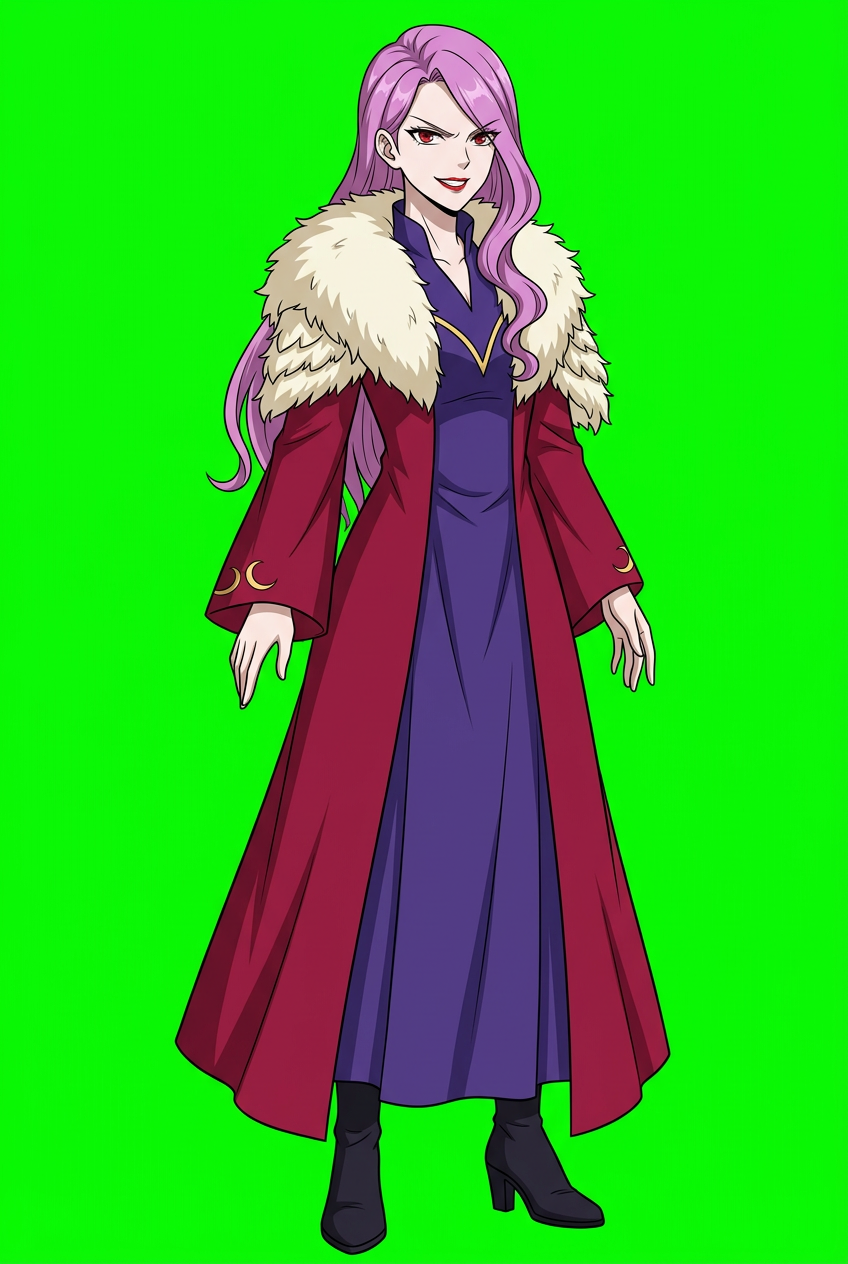
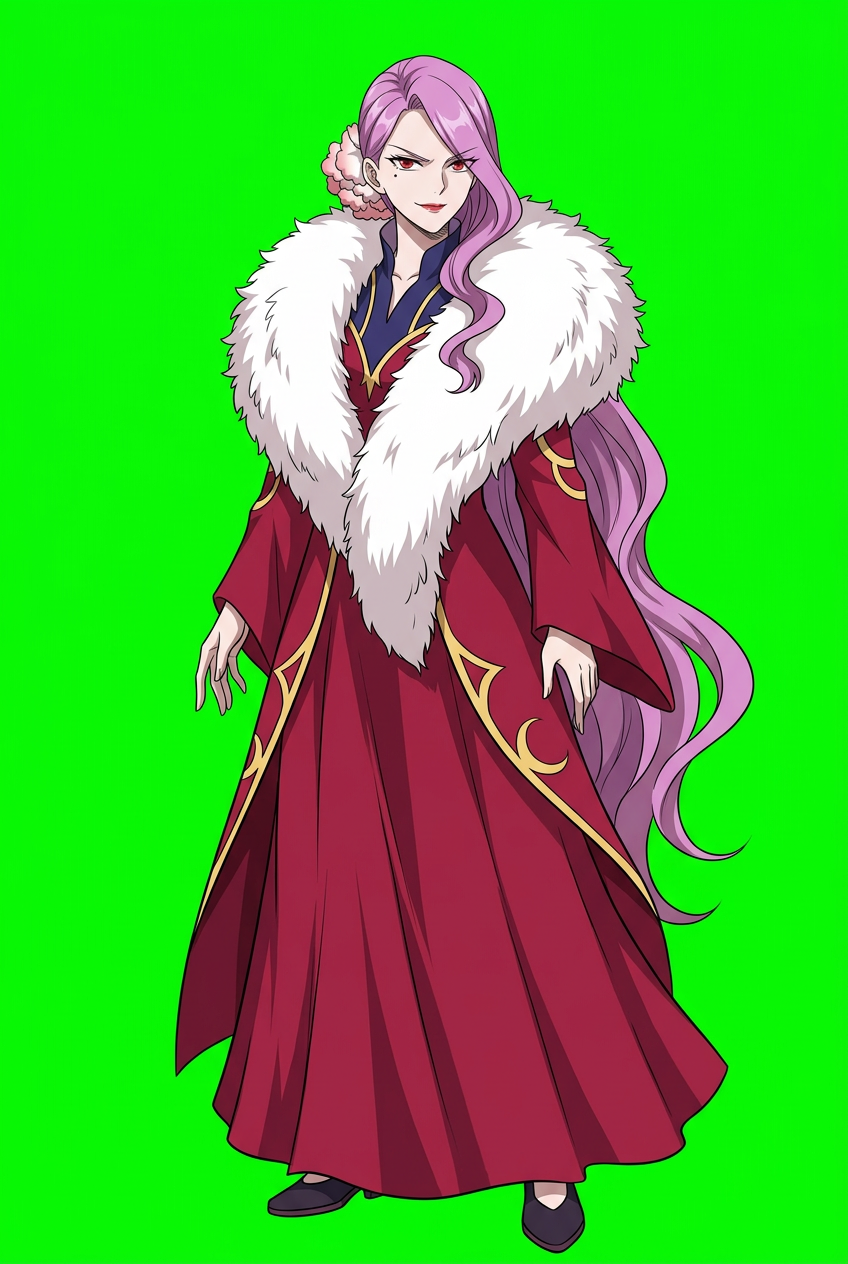
第5章: 新增叶欣蓝(249话); 花锦按漫画327话重画

diff --git a/dev/design/漫画复核进度.md b/dev/design/漫画复核进度.md
@@ -101,6 +101,8 @@
 | 玄衣 | xuanyi | 273-03/04/08（丹塔三巨头右侧，旗袍女子） | ❌→已重画（旧图有青色披帛、穿高跟鞋；漫画为无披帛，白色肩片浅蓝边，手臂缠红绳，开衩处露白底浅蓝边，红长靴） |
 | 天雷子（新增） | tianleizi | 273-03/07（丹塔三巨头左侧，棕发大胡子） | 🆕 用户选A：作为第5章丹会剧情人物加入，不参加战斗 |
 | 叶重 | yezhong | 249-07（字幕"叶家大长老"）、249-11（千叶掌） | ✅ 与漫画一致 |
+| 叶欣蓝（新增） | yexinlan | 249-06/18/20（萧炎在迦南的学生、叶重孙女） | 🆕 用户选A：第5章剧情人物，不参加战斗；领口盘扣为竖排，漫画是横排三扣（小差异） |
+| 花锦 | huajin | 327-17/18 + fandom 漫画图（花宗，粉色花鞭"百花鞭"） | ❌→已重画（旧图米黄毛领、紫色裙；漫画为白色大毛领、红袍金色月牙纹、深蓝V领镶金、眼下痣、头侧粉色花饰） |
 
 ## 用户决定（2026-09-27）
 - 凌影：选A——用第63话蒙面兜帽样子。
@@ -113,3 +115,4 @@
 - 嗜血狼王（自创）删除。第1章魔兽山脉 Boss 顺序改为：暴雪魔猿（25-26话，萧炎与小红联手，战后收服小红）→ 紫晶翼狮王（27-28话，紫晶源）→ 穆蛇（31-32话）。
 - 火焰蜥蜴人（选C）：删除；天焚炼气塔 → 心炎火灵；火能狩猎赛 → 114话漫画魔兽（深蓝鲨口兽、黑鬃刺背兽）。
 - 天雷子（选A）：加入，作为第5章丹会剧情人物，不参加战斗。
+- 叶欣蓝（选A）：加入，作为第5章剧情人物，不参加战斗。

diff --git a/dev/design/角色总表_全作.md b/dev/design/角色总表_全作.md
@@ -129,6 +129,7 @@
 | 丹晨 ✅待审 | ⚔ | 丹会 🔍 |
 | 花锦 ✅待审 | | 花宗 🔍 |
 | 叶重 ✅待审 | | 丹域叶家 🔍 |
+| 叶欣蓝 ✅待审 | | 叶重孙女·萧炎在迦南的学生（剧情人物） |
 | **敌** 冥河盟 / 中州宗派弟子 ✅待审 | ⚔ | 🔍 |
 | **冥河盟·玄冥宗** 天冥（大长老·冥河盟盟主） | ⚔ | 漫画有图 |
 | 柳苍（玄冥宗副宗主） | ⚔ | 漫画有图 |
